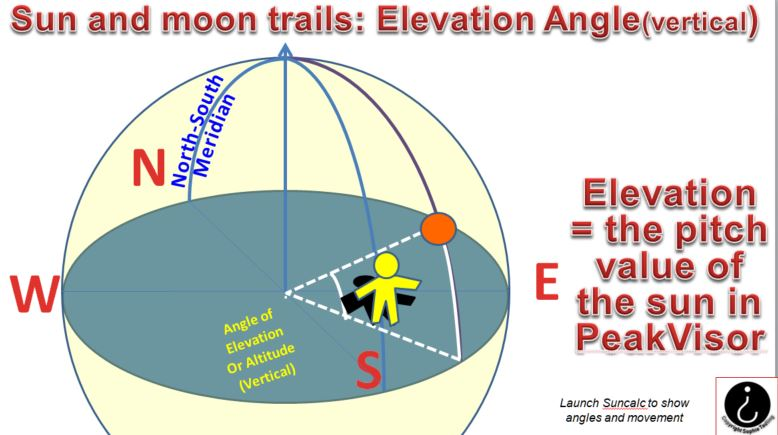
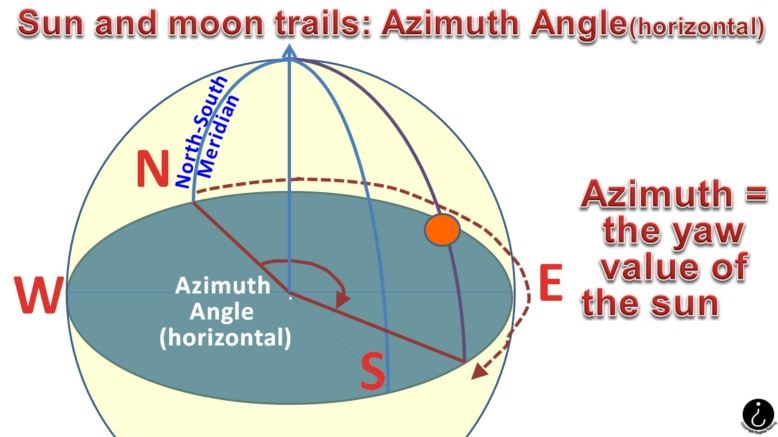
GitBook: Update content

diff --git a/gitbook/tools/suncalc/README.md b/gitbook/tools/suncalc/README.md
@@ -14,7 +14,7 @@ description: >-
 
 ## Description
 
-<div data-full-width="true"><figure><img src="../../.gitbook/assets/SliderMovingSunANNOTATED (2).gif" alt=""><figcaption><p><strong>USING SUNCALC TO MEASURE THE POSITION OF THE SUN OVER TIME BY DRAGGING THE TIME SLIDER</strong><br><strong>ACROSS THE TOP OF THE SCREEN WITH LEFT MOUSE DOWN</strong></p></figcaption></figure></div>
+<div data-full-width="true"><figure><img src=".gitbook/assets/SliderMovingSunANNOTATED (2) (1).gif" alt=""><figcaption><p><strong>USING SUNCALC TO MEASURE THE POSITION OF THE SUN OVER TIME BY DRAGGING THE TIME SLIDER</strong><br><strong>ACROSS THE TOP OF THE SCREEN WITH LEFT MOUSE DOWN</strong></p></figcaption></figure></div>
 
 <details>
 
@@ -27,7 +27,7 @@ So the perceived trajectory of the sun is the result of the superposition of thr
 
 1. <mark style="color:green;">**Internal Rotation:**</mark> The earth rotates daily around its internal axis.
 
-<img src="../../.gitbook/assets/earthspin.gif" alt="" data-size="original">
+<img src=".gitbook/assets/earthspin (1).gif" alt="" data-size="original">
 
 _(Image from Giphy , author Dyanapyehchek @dianapietrzyk)_
 
@@ -35,13 +35,13 @@ The position of the sun along its daily trajectory in the sky (measured as chang
 
 2. <mark style="color:green;">**Orbit:**</mark> The earth rotates annually around the sun in an eliptical orbit...
 
-<img src="../../.gitbook/assets/earthorbit.gif" alt="" data-size="original">
+<img src=".gitbook/assets/earthorbit (1).gif" alt="" data-size="original">
 
 _(Image from Giphy, author BrainPOP @brainpop)_
 
 3. <mark style="color:green;">**Tilt:**</mark> ...at 23.5 degrees to its internal axis of rotation, with the North Pole constantly pointing at the North Star.
 
-<img src="../../.gitbook/assets/earthtilt.gif" alt="" data-size="original">
+<img src=".gitbook/assets/earthtilt (1).gif" alt="" data-size="original">
 
 _(Image from Giphy, author European Space Agency)_
 
@@ -105,7 +105,7 @@ There are very many use cases for SunCalc in Open Source research because there 
 {% endtab %}
 
 {% tab title="Data Input Options" %}
-<figure><img src="../../.gitbook/assets/InputTable.jpg" alt=""><figcaption></figcaption></figure>
+<figure><img src=".gitbook/assets/InputTable (2).jpg" alt=""><figcaption></figcaption></figure>
 {% endtab %}
 {% endtabs %}
 
@@ -119,11 +119,11 @@ There are very many use cases for SunCalc in Open Source research because there 
 
 <summary>The trajectory of the sun is its path through space. This is defined by the variation in two angles applied to the sun seen in the sky from earth: azimuth angle and elevation angle... (Click for more detail)</summary>
 
-<img src="../../.gitbook/assets/image (1) (1).png" alt="" data-size="original">
+<img src=".gitbook/assets/image (1) (1).png" alt="" data-size="original">
 
 **THE AZIMUTH ANGLE OF THE SUN (HORIZONTAL COMPASS BEARING)**
 
-<img src="../../.gitbook/assets/suncalcelevationSC (4).jpg" alt="" data-size="original">
+<img src=".gitbook/assets/suncalcelevationSC (4).jpg" alt="" data-size="original">
 
 **THE ELEVATION ANGLE OF THE SUN (VERTICAL SEXTANT ANGLE)**
 
@@ -131,7 +131,7 @@ There are very many use cases for SunCalc in Open Source research because there 
 
 ### The SunCalc Interface
 
-<figure><img src="../../.gitbook/assets/basic interfaceANNOTATED.jpg" alt="" width="563"><figcaption><p><strong>THE SUNCALC INTERFACE MAIN WINDOW WITH EXPLANATORY LABELS</strong></p></figcaption></figure>
+<figure><img src=".gitbook/assets/basic interfaceANNOTATED (1).jpg" alt="" width="563"><figcaption><p><strong>THE SUNCALC INTERFACE MAIN WINDOW WITH EXPLANATORY LABELS</strong></p></figcaption></figure>
 
 * The red centre circle shows the selected location over the map, with horizontal and vertical crosswires for accuracy.
 * The sun is shown over the earth as an orange disc.
@@ -142,27 +142,27 @@ There are very many use cases for SunCalc in Open Source research because there 
 
 #### Configuring the Interface Display
 
-<div><figure><img src="../../.gitbook/assets/Base MapsWITH LOGO.JPG" alt=""><figcaption><p><strong>USERS SELECT THE UNDERLAY MAP FOR SUNCALC FROM THE MENU UNDER THE TOP RIGHT MAP ICON</strong></p></figcaption></figure> <figure><img src="../../.gitbook/assets/MENU TOP LEFT.jpg" alt="" width="209"><figcaption><p><strong>USERS CONFIGURE THE INTERFACE FROM THE MENU UNDER THE TOP LEFT MENU ICON</strong></p></figcaption></figure></div>
+<div><figure><img src=".gitbook/assets/Base MapsWITH LOGO (1).JPG" alt=""><figcaption><p><strong>USERS SELECT THE UNDERLAY MAP FOR SUNCALC FROM THE MENU UNDER THE TOP RIGHT MAP ICON</strong></p></figcaption></figure> <figure><img src=".gitbook/assets/MENU TOP LEFT (1).jpg" alt="" width="209"><figcaption><p><strong>USERS CONFIGURE THE INTERFACE FROM THE MENU UNDER THE TOP LEFT MENU ICON</strong></p></figcaption></figure></div>
 
 Menu buttons top left and top right of the map display show menus to toggle overlays for night, eclipse, and date and for distance measurement (Top Left Option Icon) and to set the source of the base map from 4 options (Top Right Layer Icon). See menus above.
 
 ### Objects and Their Shadows: SunCalc Shadow Length Feature
 
-<figure><img src="../../.gitbook/assets/SUNCALCTRAILSscjpg (1).jpg" alt=""><figcaption></figcaption></figure>
+<figure><img src=".gitbook/assets/SUNCALCTRAILSscjpg (1).jpg" alt=""><figcaption></figcaption></figure>
 
 Open Source Imagery often contains shadows in the same image as the object which cast them. Trigonometry can be used to relate the height of the object, the length of the shadow and the angle of elevation of the sun. It is the elevation angle of the sun which determines the ratio of the height of an object to the height of the shadow it casts.
 
 {% hint style="danger" %}
 Beware: For accurate results, the object in a source image and the shadow it casts must be at right angles (i.e. orthogonal) to the camera. A useful tool for dealing with angles in imagery is a transparent digital protractor. The example below can be copied and pasted for personal use and is provided under a creative commons licence by pngall.com at [https://www.pngall.com/protractor-png/download/13598](https://www.pngall.com/protractor-png/download/135986)
 
-<img src="../../.gitbook/assets/Protractor-Transparent.png" alt="" data-size="original">
+<img src=".gitbook/assets/Protractor-Transparent (1).png" alt="" data-size="original">
 
 These transparent protractor images can also be found online and be transformed in 3D by graphics programs to rotate to an angle which compensates for non-orthogonal shadow images, but some accuracy is lost. Above is a digital protractor in \*.png format to preserve transparency so that measurements can be made whilst the image beneath is visible.
 {% endhint %}
 
 **SunCalc Shadow Length Function** allows the user to input the height of an object at the chosen location, and then displays the length of the shadow of that object for the given location, date and time. This shadow length is displayed above the input window for object height.
 
-<figure><img src="../../.gitbook/assets/image (5) (7).png" alt="" width="563"><figcaption><p><strong>SETTING OBJECT HEIGHT FOR SHADOW LENGTH CALCULATION</strong></p></figcaption></figure>
+<figure><img src=".gitbook/assets/image (5) (7).png" alt="" width="563"><figcaption><p><strong>SETTING OBJECT HEIGHT FOR SHADOW LENGTH CALCULATION</strong></p></figcaption></figure>
 
 To open the input window for shadow length, click on the Object Level text input window in the sidebar, then enter text or use the buttons to set the object height - see above.
 
@@ -170,11 +170,11 @@ To open the input window for shadow length, click on the Object Level text input
 
 This animated graphic is generated by SunCalc for location Eiffel Tower, Paris, France. A still photograph taken from that exact location at a known date and time is shown below for comparison. The last graphic shows how to generate the animated graphic in SunCalc.
 
-<figure><img src="../../.gitbook/assets/SuncalcEiffelTower300m.gif" alt=""><figcaption><p><strong>RUNNING SUNCALC'S SHADOW ANIMATION FOR THE 300M EIFFEL TOWER FOR COMPARISON WITH A DOCUMENTED PHOTOGRAPH ON SHADOW DIRECTION AND LENGTH</strong></p></figcaption></figure>
+<figure><img src=".gitbook/assets/SuncalcEiffelTower300m (1).gif" alt=""><figcaption><p><strong>RUNNING SUNCALC'S SHADOW ANIMATION FOR THE 300M EIFFEL TOWER FOR COMPARISON WITH A DOCUMENTED PHOTOGRAPH ON SHADOW DIRECTION AND LENGTH</strong></p></figcaption></figure>
 
-<figure><img src="../../.gitbook/assets/sourceShadowEiffel.JPG" alt=""><figcaption><p><strong>EIFFEL TOWER SHADOW PHOTOGRAPH BY STEVE FROM TEXAS</strong> <a href="https://www.flickr.com/people/[phone redacted]@N06"><strong>https://www.flickr.com/people/[phone redacted]@N06</strong></a> <strong>FROM WIKIMEDIA WEBSITE</strong> <a href="https://commons.wikimedia.org/wiki/File:Shadow_of_the_Eiffel_Tower,_Paris_6_July_2016.jpg"><strong>https://commons.wikimedia.org/wiki/File:Shadow_of_the_Eiffel_Tower,_Paris_6_July_2016.jpg</strong></a><br><strong>LOCATION = EIFFEL TOWER, PARIS, FRANCE. DATE = 3/7/16, TIME = 07:35 (TEXAS TIME, I.E. 14:35 PARIS TIME)</strong><br><strong>NOTE THAT THE SHADOW DIRECTION MATCHES AT 14:35 PARIS TIME BECAUSE THE MOBILE CAMERA IS ON TEXAS TIME</strong></p></figcaption></figure>
+<figure><img src=".gitbook/assets/sourceShadowEiffel (1).JPG" alt=""><figcaption><p><strong>EIFFEL TOWER SHADOW PHOTOGRAPH BY STEVE FROM TEXAS</strong> <a href="https://www.flickr.com/people/[phone redacted]@N06"><strong>https://www.flickr.com/people/[phone redacted]@N06</strong></a> <strong>FROM WIKIMEDIA WEBSITE</strong> <a href="https://commons.wikimedia.org/wiki/File:Shadow_of_the_Eiffel_Tower,_Paris_6_July_2016.jpg"><strong>https://commons.wikimedia.org/wiki/File:Shadow_of_the_Eiffel_Tower,_Paris_6_July_2016.jpg</strong></a><br><strong>LOCATION = EIFFEL TOWER, PARIS, FRANCE. DATE = 3/7/16, TIME = 07:35 (TEXAS TIME, I.E. 14:35 PARIS TIME)</strong><br><strong>NOTE THAT THE SHADOW DIRECTION MATCHES AT 14:35 PARIS TIME BECAUSE THE MOBILE CAMERA IS ON TEXAS TIME</strong></p></figcaption></figure>
 
-<figure><img src="../../.gitbook/assets/animationbutton.jpg" alt="" width="563"><figcaption><p><strong>CLICK THE TIME INPUT BUTTON ON THE INTERFACE, THEN THE START ANIMATION BUTTON ON THE "SET TIME" WINDOW</strong></p></figcaption></figure>
+<figure><img src=".gitbook/assets/animationbutton (1).jpg" alt="" width="563"><figcaption><p><strong>CLICK THE TIME INPUT BUTTON ON THE INTERFACE, THEN THE START ANIMATION BUTTON ON THE "SET TIME" WINDOW</strong></p></figcaption></figure>
 
 SunCalc can run an animation showing the sun's daylight trajectory over time from dawn to dusk for the day and location chosen in the sidebar. This is activated from the Time Input Window as shown above.
 
@@ -234,7 +234,7 @@ Torsten Hoffmann, [Hoffisoft](https://www.torsten-hoffmann.de/web.html), Germany
 * [x] This tool uses tracking cookies. Use with caution.
 * [ ] This tool does not appear to use tracking cookies.
 
-<figure><img src="../../.gitbook/assets/Cookie Notice jun 26.jpg" alt=""><figcaption><p><strong>SUNCALC'S 2026 COOKIE POLICY WINDOW WITH USER SELECTION.</strong></p></figcaption></figure>
+<figure><img src=".gitbook/assets/Cookie Notice jun 26 (1).jpg" alt=""><figcaption><p><strong>SUNCALC'S 2026 COOKIE POLICY WINDOW WITH USER SELECTION.</strong></p></figcaption></figure>
 
 In 2025, SunCalc began to use detectable cookies, and therefore added a user choice window on cookies, which has been updated to name the Strictly Necessary Cookies in 2026. This gives users control over their risk from tracking activity and allows them to minimise it.
 